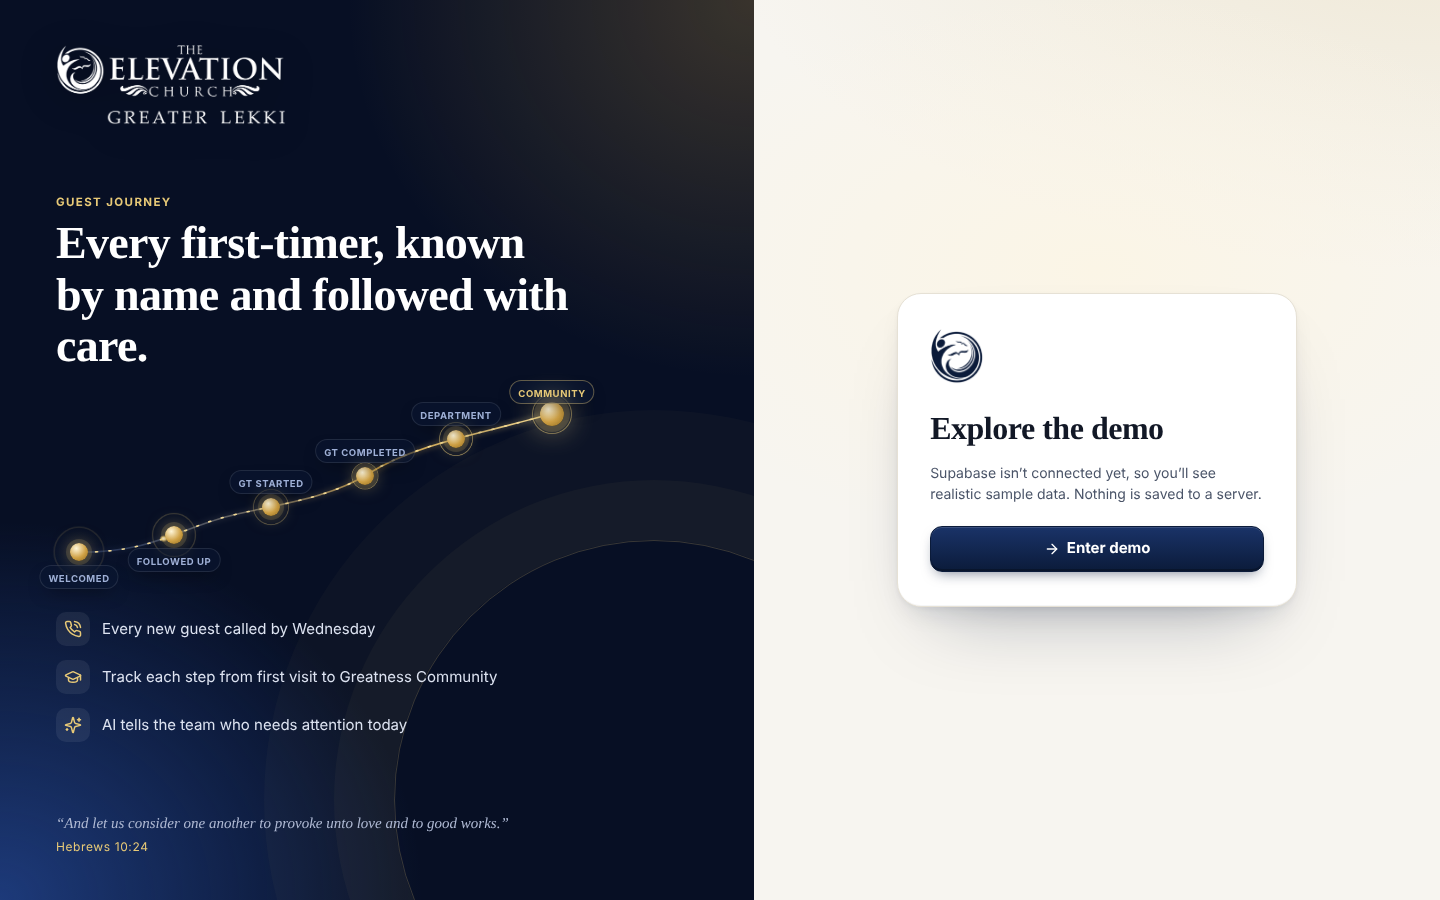
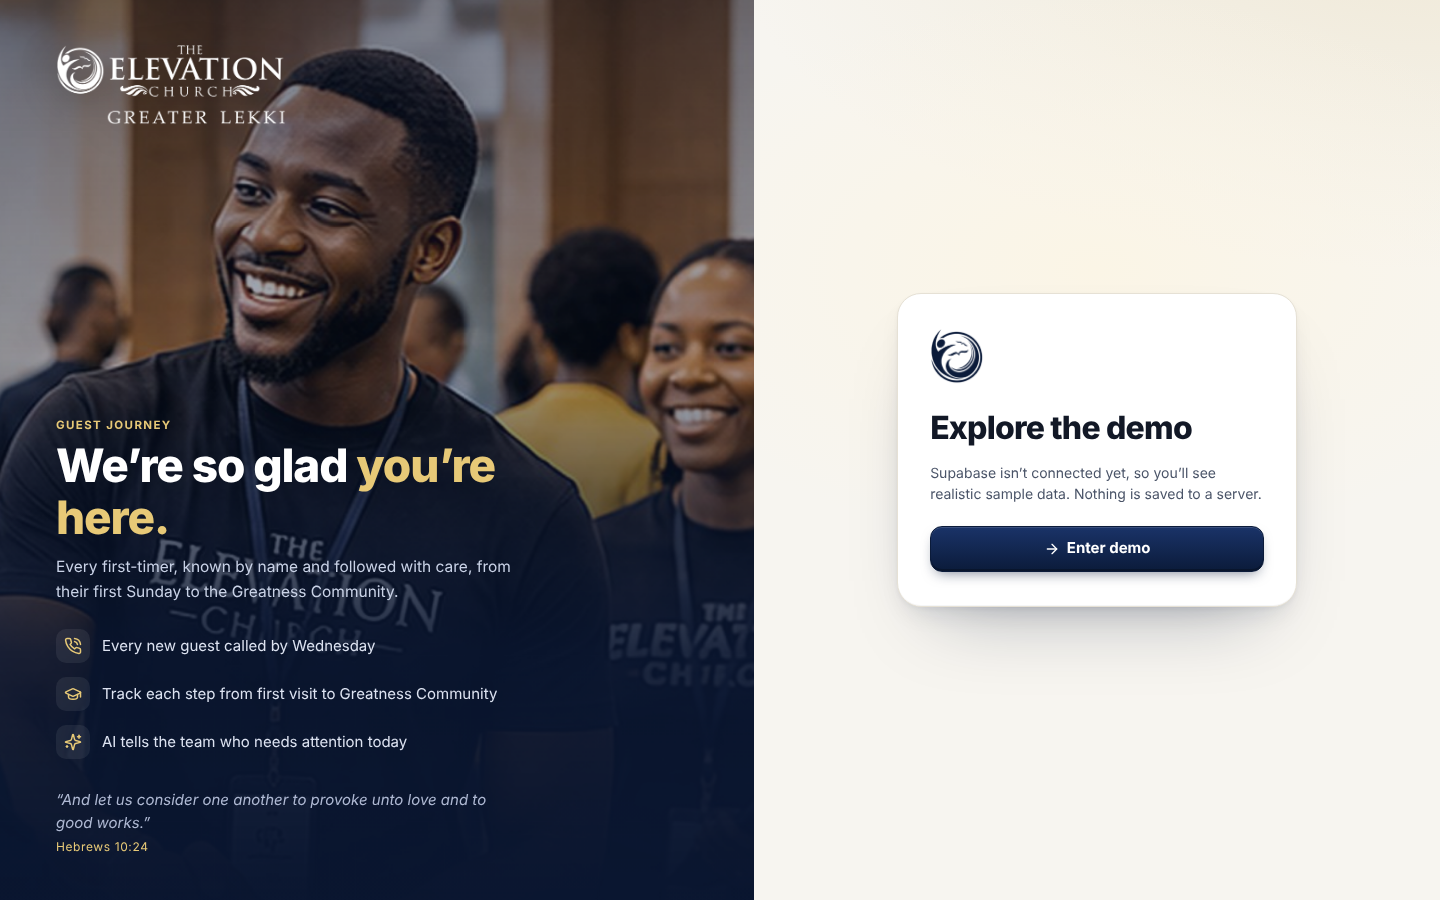
Photo-led welcome: church welcome-team hero and sign-in, clean bold headings
- Replace the abstract path graphic with a real welcome photo (navy and gold, gentle zoom)
- Hero: 'Welcome to The Elevation Church', 'We're so glad you're here!', gold call to action
- Sign-in uses the same photo; headings switch to bold Manrope

Claude-Session: https://claude.ai/code/session_012fsbnEuyyWgi44dFpxHCtq

Changed region(s): [[0.0, 0.0, 0.5312, 1.0], [0.6562, 0.4667, 0.8438, 0.4978]]

diff --git a/src/styles.css b/src/styles.css
@@ -216,7 +216,6 @@ textarea { resize: vertical; width: 100%; }
 .login-glow { position: absolute; width: 520px; height: 520px; right: -160px; bottom: -160px; border-radius: 50%; border: 1px solid rgba(231,201,119,.22); box-shadow: 0 0 0 60px rgba(231,201,119,.04), 0 0 0 130px rgba(231,201,119,.03); }
 .login-brand { position: relative; }
 .login-brand img { width: 230px; height: auto; display: block; filter: drop-shadow(0 4px 18px rgba(0,0,0,.4)); }
-.login-path { height: 170px; margin: 0 0 44px; }
 .login-emblem { width: 54px; height: auto; margin-bottom: 4px; }
 .login-copy { margin: auto 0; max-width: 520px; position: relative; }
 .login-copy .eyebrow { color: var(--gold-300); }
@@ -529,67 +528,62 @@ body { background: radial-gradient(1200px 600px at 100% -10%, #EFE8D6 0%, transp
 .ov > *:nth-child(2) { animation-delay: .08s; } .ov > *:nth-child(3) { animation-delay: .14s; } .ov > *:nth-child(4) { animation-delay: .2s; } .ov > *:nth-child(5) { animation-delay: .26s; } .ov > *:nth-child(n+6) { animation-delay: .32s; }
 @keyframes rise { from { opacity: 0; transform: translateY(14px); } to { opacity: 1; transform: none; } }
 
-/* hero */
-.hero { position: relative; overflow: hidden; border-radius: 26px; margin-bottom: 26px; color: #E4E9F5; isolation: isolate;
-  background: linear-gradient(140deg, #091631 0%, #0E2148 45%, #183577 100%);
-  box-shadow: 0 1px 0 rgba(255,255,255,.1) inset, 0 -1px 0 rgba(0,0,0,.4) inset, 0 40px 80px -40px rgba(7,15,36,.85), 0 12px 24px -12px rgba(7,15,36,.5);
-  transform: perspective(1400px) rotateX(var(--rx, 0deg)) rotateY(var(--ry, 0deg)); transition: transform .5s cubic-bezier(.2,.8,.2,1); }
-.hero-bg { position: absolute; inset: 0; z-index: -1; pointer-events: none; }
-.orb { position: absolute; border-radius: 50%; filter: blur(10px); }
-.o1 { width: 420px; height: 420px; right: -90px; top: -170px; background: radial-gradient(circle, rgba(231,201,119,.45), transparent 65%); animation: drift 14s ease-in-out infinite alternate; }
-.o2 { width: 360px; height: 360px; left: -120px; bottom: -200px; background: radial-gradient(circle, rgba(110,139,199,.45), transparent 65%); animation: drift 18s ease-in-out infinite alternate-reverse; }
-.ring { position: absolute; border-radius: 50%; border: 1px solid rgba(231,201,119,.16); }
-.r1 { width: 640px; height: 640px; right: -260px; top: -280px; animation: spinSlow 60s linear infinite; border-style: dashed; }
-.r2 { width: 460px; height: 460px; right: -170px; top: -190px; border-color: rgba(255,255,255,.07); }
-.hero-light { position: absolute; inset: 0; background: radial-gradient(500px circle at var(--mx, 70%) var(--my, 20%), rgba(255,255,255,.08), transparent 60%); }
-.hero::before { content: ''; position: absolute; inset: 0; z-index: -1; opacity: .5; background-image: radial-gradient(rgba(255,255,255,.07) 1px, transparent 1px); background-size: 22px 22px; mask-image: linear-gradient(90deg, transparent, #000 40%, #000); }
-@keyframes drift { to { transform: translate(-40px, 30px) scale(1.08); } }
-@keyframes spinSlow { to { transform: rotate(360deg); } }
-.hero-in { display: grid; grid-template-columns: minmax(0, 1fr) minmax(0, 1.25fr); gap: 20px; align-items: center; padding: 30px 34px 30px; transform: translateZ(30px); }
-.hero-logo { width: 190px; height: auto; display: block; margin-bottom: 18px; filter: drop-shadow(0 4px 14px rgba(0,0,0,.4)); }
-.hero .eyebrow { color: var(--gold-300); }
-.hero-h { font-size: clamp(30px, 3.2vw, 42px); color: #fff; line-height: 1.08; text-shadow: 0 2px 20px rgba(0,0,0,.35); }
-.hero-sub { margin: 12px 0 18px; color: #B8C4E0; font-size: 14.5px; max-width: 460px; line-height: 1.6; }
-.hero-sub b { color: #fff; }
-.hero-chips { display: flex; gap: 10px; flex-wrap: wrap; }
-.hero-chips button { display: inline-flex; gap: 6px; align-items: baseline; border: 1px solid rgba(255,255,255,.14); background: rgba(255,255,255,.06); color: #D7DEEE; border-radius: 30px; padding: 8px 14px; font-weight: 600; font-size: 13px; cursor: pointer; backdrop-filter: blur(6px); box-shadow: 0 1px 0 rgba(255,255,255,.08) inset; transition: background .2s, transform .2s; }
-.hero-chips button:hover { background: rgba(255,255,255,.12); transform: translateY(-2px); }
-.hero-chips b { font-family: var(--serif); font-size: 18px; color: #fff; }
-.hero-chips .hot b { color: #FFB4A8; }
-.hero-path { position: relative; height: 260px; }
-.hero-path-t { position: absolute; right: 6px; bottom: 0; margin: 0; font-family: var(--serif); font-style: italic; font-size: 13px; color: rgba(231,201,119,.75); }
-
-/* Elevation Path */
-.epath { position: relative; width: 100%; height: 100%; }
-.epath-svg { position: absolute; inset: 0; width: 100%; height: 100%; overflow: visible; }
-.epath-flow { animation: flow 2.4s linear infinite; }
-@keyframes flow { to { stroke-dashoffset: -32; } }
-.ep-node { position: absolute; transform: translate(-50%, -50%); display: flex; align-items: center; gap: 10px; opacity: 0; animation: pop-in .6s cubic-bezier(.2,1.4,.4,1) forwards; }
-@keyframes pop-in { from { opacity: 0; transform: translate(-50%, -30%) scale(.6); } to { opacity: 1; transform: translate(-50%, -50%) scale(1); } }
-.ep-dot { position: relative; width: 18px; height: 18px; border-radius: 50%; display: grid; place-items: center; background: radial-gradient(circle at 35% 30%, #FFF6D8, #CFA145 55%, #8F6A1F); box-shadow: 0 0 0 4px rgba(231,201,119,.16), 0 0 18px rgba(231,201,119,.6), 0 3px 6px rgba(0,0,0,.4); flex: 0 0 18px; }
-.ep-dot i { position: absolute; inset: -8px; border-radius: 50%; border: 1px solid rgba(231,201,119,.5); animation: pulse 2.6s ease-out infinite; }
-.n1 .ep-dot i { animation-delay: .4s; } .n2 .ep-dot i { animation-delay: .8s; } .n3 .ep-dot i { animation-delay: 1.2s; } .n4 .ep-dot i { animation-delay: 1.6s; } .n5 .ep-dot i { animation-delay: 2s; }
-@keyframes pulse { from { transform: scale(.6); opacity: 1; } to { transform: scale(1.8); opacity: 0; } }
-.ep-lbl { position: absolute; left: 50%; transform: translateX(-50%); bottom: 22px; text-align: center; white-space: nowrap; line-height: 1.15; padding: 6px 10px; border-radius: 12px; background: rgba(9,22,49,.55); border: 1px solid rgba(255,255,255,.1); backdrop-filter: blur(6px); box-shadow: 0 8px 18px -8px rgba(0,0,0,.6); }
-.n0 .ep-lbl, .n1 .ep-lbl { bottom: auto; top: 22px; }
-.ep-lbl b { display: block; font-family: var(--serif); font-size: 20px; color: #fff; font-weight: 600; }
-.ep-lbl span { font-size: 10.5px; font-weight: 700; letter-spacing: .06em; text-transform: uppercase; color: #9FB0D6; }
-.n5 .ep-dot { width: 24px; height: 24px; flex-basis: 24px; box-shadow: 0 0 0 6px rgba(231,201,119,.18), 0 0 30px rgba(243,218,149,.9), 0 3px 6px rgba(0,0,0,.4); }
-.n5 .ep-lbl { border-color: rgba(231,201,119,.4); }
-.n5 .ep-lbl span { color: var(--gold-300); }
-.epath.compact .ep-lbl { padding: 3px 8px; }
-.epath.compact .ep-lbl span { font-size: 9.5px; }
 .ov-head { margin-top: 4px; }
 
-@media (max-width: 1100px) { .hero-in { grid-template-columns: 1fr; } .hero-path { height: 230px; margin-top: 10px; } }
-@media (max-width: 900px) {
-  .hero-in { padding: 22px 18px; }
-  .hero-path { height: 230px; margin: 18px 34px 6px 26px; }
-  .hero-path-t { right: -20px; bottom: -6px; }
-  .ep-lbl b { font-size: 16px; } .ep-lbl span { font-size: 9px; } .ep-lbl { padding: 4px 7px; }
-  .side-logo { width: 150px; }
-}
-@media (hover: none) { .tilt, .hero { transform: none !important; } }
+@media (max-width: 900px) { .side-logo { width: 150px; } }
 
 .login-card { background: #fff; padding: 34px 32px; border-radius: 24px; border: 1px solid #E6E1D5; box-shadow: var(--sh-solid), 0 40px 80px -40px rgba(11,27,58,.35); }
 .login-form { background: radial-gradient(700px 400px at 50% 30%, #FBF5E6, transparent 70%); }
+
+/* ==========================================================================
+   Photo-led welcome
+   ========================================================================== */
+:root { --serif: 'Manrope', system-ui, -apple-system, 'Segoe UI', Roboto, sans-serif; }
+.serif { font-weight: 800; letter-spacing: -0.025em; }
+.stat-v, .team-m b, .up-sum b, .ring-v b, .funnel-v b { font-weight: 800; letter-spacing: -0.03em; }
+.top h1 { font-size: 22px; }
+.modal-h h3 { font-weight: 800; }
+
+.welcome { position: relative; overflow: hidden; isolation: isolate; border-radius: 26px; min-height: 380px; margin-bottom: 26px; display: flex; align-items: center; color: #fff;
+  background: #0A1630;
+  box-shadow: 0 1px 0 rgba(255,255,255,.12) inset, 0 40px 80px -40px rgba(7,15,36,.85), 0 14px 28px -14px rgba(7,15,36,.55);
+  transform: perspective(1600px) rotateX(var(--rx, 0deg)) rotateY(var(--ry, 0deg)); transition: transform .6s cubic-bezier(.2,.8,.2,1); }
+.welcome-photo { position: absolute; z-index: -2; top: 0; bottom: 0; right: 0; width: 66%; background: url('/welcome.jpg') center 30% / cover no-repeat;
+  animation: kenburns 22s ease-in-out infinite alternate; transform-origin: 60% 40%; }
+.welcome-shade { position: absolute; inset: 0; z-index: -1;
+  background:
+    linear-gradient(90deg, #0A1630 0%, #0A1630 34%, rgba(10,22,48,.86) 46%, rgba(10,22,48,.25) 64%, rgba(10,22,48,0) 80%),
+    linear-gradient(0deg, rgba(10,22,48,.55), transparent 35%),
+    radial-gradient(420px circle at var(--mx, 75%) var(--my, 30%), rgba(255,231,170,.14), transparent 60%); }
+.welcome::after { content: ''; position: absolute; inset: 0; z-index: -1; border-radius: inherit; pointer-events: none; box-shadow: inset 0 0 0 1px rgba(255,255,255,.08); }
+@keyframes kenburns { from { transform: scale(1.02) translate(0, 0); } to { transform: scale(1.1) translate(-1.5%, 1%); } }
+.welcome-copy { position: relative; padding: 40px 44px; max-width: 640px; transform: translateZ(40px); }
+.welcome-hi { margin: 0 0 14px; display: inline-block; font-size: 12px; font-weight: 700; color: #D9E0EE; background: rgba(255,255,255,.08); border: 1px solid rgba(255,255,255,.12); border-radius: 30px; padding: 5px 12px; backdrop-filter: blur(6px); }
+.welcome-h { margin: 0; font-size: clamp(32px, 3.6vw, 50px); line-height: 1.04; font-weight: 800; letter-spacing: -0.03em; text-shadow: 0 2px 24px rgba(0,0,0,.35); }
+.welcome-h span { display: block; font-weight: 400; letter-spacing: -0.02em; }
+.welcome-h em { font-style: normal; background: linear-gradient(180deg, #F3D98E, #CFA145); -webkit-background-clip: text; background-clip: text; color: transparent; }
+.welcome-sub { margin: 14px 0 10px; font-size: 22px; font-weight: 800; letter-spacing: -0.01em; }
+.welcome-body { margin: 0 0 24px; color: #D3DAEA; font-size: 15px; line-height: 1.6; max-width: 440px; }
+.welcome-cta { display: flex; align-items: center; gap: 12px; flex-wrap: wrap; }
+.btn-gold { display: inline-flex; align-items: center; gap: 10px; height: 50px; padding: 0 24px; border: 0; border-radius: 14px; cursor: pointer; font-weight: 800; font-size: 16px; color: #1B1405;
+  background: linear-gradient(180deg, #F2D58A 0%, #D6AA4C 55%, #BE8F33 100%);
+  box-shadow: 0 1px 0 rgba(255,255,255,.6) inset, 0 -2px 0 rgba(0,0,0,.18) inset, 0 12px 24px -10px rgba(214,170,76,.7); transition: transform .15s, box-shadow .2s, filter .2s; }
+.btn-gold:hover { transform: translateY(-2px); filter: brightness(1.05); box-shadow: 0 1px 0 rgba(255,255,255,.6) inset, 0 -2px 0 rgba(0,0,0,.18) inset, 0 18px 30px -12px rgba(214,170,76,.8); }
+.btn-gold:active { transform: translateY(0); }
+.btn-gold svg { transition: transform .2s; } .btn-gold:hover svg { transform: translateX(3px); }
+.welcome-chip { display: inline-flex; gap: 7px; align-items: baseline; height: 50px; padding: 0 16px; align-items: center; border-radius: 14px; border: 1px solid rgba(255,255,255,.16); background: rgba(255,255,255,.07); color: #D9E0EE; font-weight: 600; font-size: 13.5px; cursor: pointer; backdrop-filter: blur(8px); transition: background .2s; }
+.welcome-chip:hover { background: rgba(255,255,255,.13); }
+.welcome-chip b { font-size: 20px; color: #fff; }
+
+.login-art { background: #0A1630; isolation: isolate; }
+.login-photo { position: absolute; inset: 0; z-index: -1; background:
+    linear-gradient(180deg, rgba(10,22,48,.55) 0%, rgba(10,22,48,.35) 40%, rgba(10,22,48,.92) 72%, #0A1630 100%),
+    url('/welcome.jpg') center 22% / cover no-repeat; animation: kenburns 26s ease-in-out infinite alternate; }
+.login-copy h1 em { font-style: normal; color: var(--gold-300); }
+.login-copy h1 { margin-bottom: 12px; }
+.login-lead { margin: 0 0 24px; color: #C9D2E6; font-size: 15.5px; line-height: 1.6; max-width: 460px; }
+.login-copy { margin: auto 0 30px; }
+
+@media (max-width: 1100px) { .welcome-photo { width: 100%; opacity: .55; } .welcome-shade { background: linear-gradient(90deg, rgba(10,22,48,.95) 0%, rgba(10,22,48,.7) 60%, rgba(10,22,48,.35) 100%); } }
+@media (max-width: 900px) { .welcome { min-height: 0; } .welcome-copy { padding: 28px 22px; } .welcome-sub { font-size: 19px; } .login-copy { margin-top: 30px; } }
+@media (hover: none) { .tilt, .welcome { transform: none !important; } }

diff --git a/src/pages/Overview.jsx b/src/pages/Overview.jsx
@@ -7,7 +7,7 @@ import { useStore } from '../store.jsx';
 import { go } from '../App.jsx';
 import { Card, Stat, Segmented, Avatar, StageDots, FollowBadge } from '../components/ui.jsx';
 import { WeeklyBars, Funnel, HBars, Ring } from '../components/charts.jsx';
-import { ElevationPath, CountUp, useTilt } from '../components/motion.jsx';
+import { CountUp, useTilt } from '../components/motion.jsx';
 import { fetchDigest } from '../lib/ai.js';
 import {
   STAGES, PERIODS, periodRange, previousRange, inRange, today, addDays, weekStart, followupStatus, dayOf, fullName, parseDay,
@@ -79,7 +79,7 @@ export default function Overview({ openGuest }) {
 
   return (
     <div className="ov">
-      <Hero me={me} guests={guests} settings={settings} overdue={m.overdueNow.length} />
+      <Hero me={me} guests={guests} />
 
       <div className="ov-head">
         <div><p className="eyebrow">Insights</p><h2 className="serif ov-title">How our guests are doing</h2></div>
@@ -174,30 +174,22 @@ export default function Overview({ openGuest }) {
   );
 }
 
-function Hero({ me, guests, settings, overdue }) {
-  const tilt = useTilt(4);
-  const counts = STAGES.map((st) => (st.key === 'new' ? guests.length : guests.filter((g) => g[st.field]).length));
+function Hero({ me, guests }) {
+  const tilt = useTilt(3);
   const wk = periodRange('this_week');
   const thisWeek = guests.filter((g) => inRange(g.first_visit, wk)).length;
   return (
-    <section className="hero" ref={tilt}>
-      <div className="hero-bg" aria-hidden>
-        <span className="orb o1" /><span className="orb o2" /><span className="ring r1" /><span className="ring r2" /><span className="hero-light" />
-      </div>
-      <div className="hero-in">
-        <div className="hero-copy">
-          <img src="/logo-light.png" alt="The Elevation Church, Greater Lekki" className="hero-logo" />
-          <p className="eyebrow">{fmtDateLong(today())}</p>
-          <h2 className="serif hero-h">{greeting()}, {(me.full_name || '').split(' ')[0] || 'friend'}.</h2>
-          <p className="hero-sub">Every first-timer is a story God is writing. This is where our <b><CountUp value={guests.length} /></b> guests are on their journey, from first Sunday to the Greatness Community.</p>
-          <div className="hero-chips">
-            <button onClick={() => go('guests', { period: 'this_week' })}><b><CountUp value={thisWeek} /></b> new this week</button>
-            <button className={overdue ? 'hot' : ''} onClick={() => go('followups', { tab: 'overdue' })}><b><CountUp value={overdue} /></b> awaiting a call</button>
-          </div>
-        </div>
-        <div className="hero-path">
-          <p className="hero-path-t">The Elevation Path</p>
-          <ElevationPath counts={counts} />
+    <section className="welcome" ref={tilt}>
+      <div className="welcome-photo" role="img" aria-label="Elevation Church welcome team greeting a first-time guest" />
+      <div className="welcome-shade" aria-hidden />
+      <div className="welcome-copy">
+        <p className="welcome-hi">{greeting()}, {(me.full_name || '').split(' ')[0] || 'friend'} · {fmtDateLong(today())}</p>
+        <h2 className="welcome-h"><span>Welcome to</span>The Elevation <em>Church</em></h2>
+        <p className="welcome-sub">We’re so glad you’re here!</p>
+        <p className="welcome-body">Whether it’s your first time or you’ve been with us before, you belong here. Let’s grow together in God’s grace.</p>
+        <div className="welcome-cta">
+          <button className="btn-gold" onClick={() => go('guests', { period: 'this_week' })}>Welcome, Friend! <LuArrowRight aria-hidden /></button>
+          <button className="welcome-chip" onClick={() => go('guests', { period: 'this_week' })}><b><CountUp value={thisWeek} /></b> first-timers this week</button>
         </div>
       </div>
     </section>

diff --git a/src/components/motion.jsx b/src/components/motion.jsx
@@ -1,5 +1,4 @@
-import { useEffect, useLayoutEffect, useRef, useState } from 'react';
-import { STAGES } from '../lib/journey.js';
+import { useEffect, useRef, useState } from 'react';
 import { fmtNum } from '../lib/format.js';
 
 const reduced = () => typeof window !== 'undefined' && window.matchMedia?.('(prefers-reduced-motion: reduce)').matches;
@@ -49,57 +48,4 @@ export function useTilt(max = 6) {
     return () => { el.removeEventListener('pointermove', move); el.removeEventListener('pointerleave', leave); cancelAnimationFrame(raf); };
   }, [max]);
   return ref;
-}
-
-const PATH = 'M 28 236 C 120 236, 150 196, 214 178 S 330 150, 372 116 S 470 64, 520 48 S 584 26, 600 22';
-const AT = [0, 0.19, 0.39, 0.59, 0.79, 0.985];
-
-/**
- * "The Elevation Path": the six journey stages climbing upward, with light travelling along the path.
- * counts: array of 6 numbers (people who reached each stage). Pass null to hide numbers.
- */
-export function ElevationPath({ counts, compact }) {
-  const pathRef = useRef(null);
-  const [pts, setPts] = useState([]);
-  useLayoutEffect(() => {
-    const p = pathRef.current;
-    if (!p) return;
-    const L = p.getTotalLength();
-    setPts(AT.map((t) => { const q = p.getPointAtLength(L * t); return { x: (q.x / 620) * 100, y: (q.y / 260) * 100 }; }));
-  }, []);
-  return (
-    <div className={`epath ${compact ? 'compact' : ''}`} aria-hidden={!counts}>
-      <svg viewBox="0 0 620 260" preserveAspectRatio="none" className="epath-svg">
-        <defs>
-          <linearGradient id="ep-line" x1="0" y1="1" x2="1" y2="0">
-            <stop offset="0" stopColor="#6E8BC7" stopOpacity=".25" />
-            <stop offset=".6" stopColor="#CFA145" stopOpacity=".9" />
-            <stop offset="1" stopColor="#F3DA95" />
-          </linearGradient>
-          <filter id="ep-glow" x="-50%" y="-50%" width="200%" height="200%"><feGaussianBlur stdDeviation="3.2" /></filter>
-          <radialGradient id="ep-spark"><stop offset="0" stopColor="#fff" /><stop offset=".4" stopColor="#F3DA95" /><stop offset="1" stopColor="#CFA145" stopOpacity="0" /></radialGradient>
-        </defs>
-        <path d={PATH} fill="none" stroke="url(#ep-line)" strokeWidth="10" opacity=".18" filter="url(#ep-glow)" />
-        <path ref={pathRef} id="ep-path" d={PATH} fill="none" stroke="url(#ep-line)" strokeWidth="2.4" strokeLinecap="round" />
-        <path d={PATH} fill="none" stroke="#F3DA95" strokeWidth="2.4" strokeLinecap="round" strokeDasharray="2 14" className="epath-flow" />
-        {[0, 1.6, 3.2, 4.8].map((b) => (
-          <circle key={b} r="5.5" fill="url(#ep-spark)" className="epath-spark" opacity="0">
-            <animate attributeName="opacity" values="0;1;1;0" keyTimes="0;.08;.88;1" dur="6.4s" begin={`${b}s`} repeatCount="indefinite" />
-            <animateMotion dur="6.4s" begin={`${b}s`} repeatCount="indefinite" rotate="auto" keyPoints="0;1" keyTimes="0;1" calcMode="spline" keySplines=".45 0 .55 1">
-              <mpath href="#ep-path" />
-            </animateMotion>
-          </circle>
-        ))}
-      </svg>
-      {pts.map((p, i) => (
-        <div key={STAGES[i].key} className={`ep-node n${i}`} style={{ left: `${p.x}%`, top: `${p.y}%`, animationDelay: `${0.15 + i * 0.12}s` }}>
-          <span className="ep-dot"><i /></span>
-          <div className="ep-lbl">
-            {counts && <b><CountUp value={counts[i] || 0} /></b>}
-            <span>{STAGES[i].short === 'Called' ? 'Followed up' : STAGES[i].short === 'New' ? 'Welcomed' : STAGES[i].short}</span>
-          </div>
-        </div>
-      ))}
-    </div>
-  );
 }

diff --git a/src/pages/Login.jsx b/src/pages/Login.jsx
@@ -2,7 +2,6 @@ import { useState } from 'react';
 import { LuArrowRight, LuSparkles, LuPhoneCall, LuGraduationCap } from 'react-icons/lu';
 import { useStore } from '../store.jsx';
 import { Button, Field } from '../components/ui.jsx';
-import { ElevationPath } from '../components/motion.jsx';
 
 export default function Login() {
   const { signIn, signUp, resetPassword, live } = useStore();
@@ -29,12 +28,12 @@ export default function Login() {
   return (
     <div className="login">
       <section className="login-art">
-        <div className="login-glow" />
+        <div className="login-photo" aria-hidden />
         <div className="login-brand"><img src="/logo-light.png" alt="The Elevation Church, Greater Lekki" /></div>
         <div className="login-copy">
           <p className="eyebrow">Guest Journey</p>
-          <h1 className="serif">Every first-timer, known by name and followed with care.</h1>
-          <div className="login-path"><ElevationPath counts={null} compact /></div>
+          <h1 className="serif">We’re so glad <em>you’re here.</em></h1>
+          <p className="login-lead">Every first-timer, known by name and followed with care, from their first Sunday to the Greatness Community.</p>
           <ul>
             <li><LuPhoneCall aria-hidden /> Every new guest called by Wednesday</li>
             <li><LuGraduationCap aria-hidden /> Track each step from first visit to Greatness Community</li>

diff --git a/src/index.html b/src/index.html
@@ -9,7 +9,8 @@
 <meta name="theme-color" content="#0B1B3A">
 <link rel="preconnect" href="https://fonts.googleapis.com">
 <link rel="preconnect" href="https://fonts.gstatic.com" crossorigin>
-<link href="https://fonts.googleapis.com/css2?family=Fraunces:opsz,wght@9..144,500;9..144,600;9..144,700&family=Manrope:wght@400;500;600;700;800&display=swap" rel="stylesheet">
+<link href="https://fonts.googleapis.com/css2?family=Manrope:wght@400;500;600;700;800&display=swap" rel="stylesheet">
+<link rel="preload" as="image" href="/welcome.jpg">
 <link rel="stylesheet" href="/assets/styles.css?v=__V__">
 </head>
 <body>

diff --git a/README.md b/README.md
@@ -4,6 +4,8 @@ Every Sunday, new guests fill in the **Guest Information Card**. This app makes 
 
 ![Overview](docs/overview.png)
 
+![Sign in](docs/login.png)
+
 ## What it does
 
 | | |
@@ -75,7 +77,7 @@ The `/api/insights` function runs on Vercel (`vercel dev` locally).
 
 ## Changing things
 - **Follow-up window, Greatness Track "stalled" weeks, departments:** change these in the app under **Settings** (admin).
-- **Logo:** replace `public/logo.svg` with the church logo (same file name).
+- **Logo and photos:** `public/logo-light.png`, `public/logo-dark.png`, `public/emblem-*.png` and the welcome photo `public/welcome.jpg`. Replace them with the same file names.
 - **New card fields:** add a column in `supabase/schema.sql`, a matcher in `FIELDS` in `src/lib/excel.js`, and an input in `src/pages/GuestForm.jsx`.
 
 ## Roadmap
